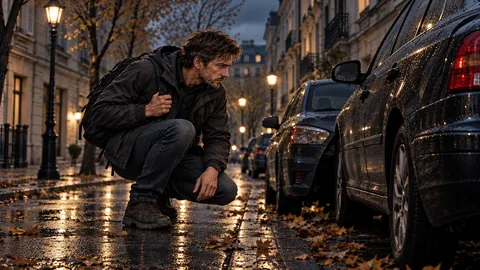
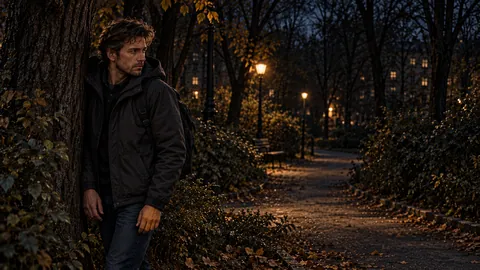
v313: add the approved night park rustle scene and outcomes
Use the neighbour encounter cards with four approved illustrations. Start the rustle at displayed D1, 22:00–05:00, independently of home departure. Preserve seen/pending progress, shared cooldown, paused choices and results, capped Mood gain and visible Energy loss.

Validation: full gameplay/UI/save regression suite, focused event and result checks after the final visibility fix, responsive image/cache checks, WebP verification and production build.

diff --git a/src/events.ts b/src/events.ts
@@ -1,5 +1,6 @@
 import { illustrateStreetEvent } from './eventArtwork'
 import type { Housing } from './game'
+import type { IconName } from './Icon'
 
 export type EventTrigger = 'travel' | 'location' | 'wake' | 'walk' | 'bench'
 
@@ -10,6 +11,8 @@ export function firstNightTime(state: { day: number; minutes: number }) {
 
 export type EventContext = {
   locationId: string
+  /** Stored one-based calendar day: displayed D1 is day 2. */
+  day?: number
   minutes?: number
   temperature?: number
   observation?: 'idle' | 'action' | 'arrival'
@@ -83,6 +86,7 @@ export type DiceCheck = {
 
 export type StreetEventChoice = {
   label: string
+  icon?: IconName
   moneyRequired?: number
   outcome?: EventOutcome
   check?: DiceCheck
@@ -115,10 +119,10 @@ export const STREET_EVENTS: StreetEvent[] = [
     { label:'Take a moment', outcome:{ minutes:5, message:'You watch the windows light up. For everyone inside, this may be an ordinary morning. You take a breath before joining it.' } },
     { label:'Keep moving', outcome:{ minutes:5, energy:-1, mood:1, message:'You adjust your backpack and walk towards the waking streets. The night is over. You still need a plan for the day.' } },
   ]},
-  { id:'night-rustle', trigger:'location', icon:'❔', title:'A rustle behind you', text:'Something scrapes behind a parked car. Then a short rustle, close to the pavement. You turn your head, but the gap between the cars is dark. The street is otherwise silent.', weight:1, eligible:c=>c.locationId==='street' && c.minutes!==undefined && (c.minutes>=1320 || c.minutes<300), choices:[
-    { label:'Look to see what it is', outcome:{ minutes:2, mood:2, message:'You lean far enough to see beneath the car. A cat squeezes out, pauses to look at you, then slips past with its tail up. You let out a breath. For a moment, you almost laugh at yourself.' } },
-    { label:'Wait and listen', outcome:{ minutes:3, message:'You stay still. Something brushes the underside of the car, then everything goes quiet. Nothing comes into view. After a while, you move on without finding out what it was.' } },
-    { label:'Leave it alone and move on', outcome:{ minutes:1, message:'You put some distance between yourself and the parked cars. The sound does not follow you. Whatever it was remains in the dark.' } },
+  { id:'night-rustle', trigger:'location', icon:'❔', title:'A rustle in the dark', text:'The streetlights barely reach this stretch of path. A rustle breaks the silence. A few seconds later, you hear it again.', weight:1, eligible:c=>c.locationId==='street' && c.day!==undefined && c.day>=2 && c.minutes!==undefined && (c.minutes>=1320 || c.minutes<300), choices:[
+    { label:'Call out and step closer', icon:'search', outcome:{ minutes:5, mood:2, message:'“Hello? Anyone there?” You take a few careful steps towards the sound. A cat emerges from the bushes and stops to look at you. You let out a breath. “Just you, then.”' } },
+    { label:'Stay still and listen', icon:'pause', outcome:{ minutes:5, message:'You stop and wait, listening for another sound. Nothing. After a few minutes, you move on, still unsure what you heard.' } },
+    { label:'Walk away', icon:'walk', outcome:{ energy:-1, message:'You quicken your pace and take a longer route around the dark stretch.' } },
   ]},
   { id:'cold-hands', trigger:'location', icon:'🌡', title:'Cold fingers', text:'You have been outside for a while. Your fingers have grown stiff, and you keep curling them into your palms. The cold feels harder to ignore now that there is no warm room waiting for you.', weight:1, eligible:c=>c.locationId==='street' && c.temperature!==undefined && c.temperature<10 && (c.elapsedMinutes??0)>=15 && c.observation!=='arrival', choices:[
     { label:'Rub my hands together', outcome:{ minutes:2, mood:1, message:'You rub your palms and breathe into your cupped hands. A little warmth returns. It is only temporary, but it helps.' } },

diff --git a/src/App.tsx b/src/App.tsx
@@ -41,7 +41,7 @@ import { useGameAutosave } from './useGameAutosave'
 import { SAVE_KEY, DISCOVERY_KEY, readSavedGame, loadDiscoveredLocations } from './saveCompatibility'
 import { displayDay } from './gameDate'
 
-const BUILD_VERSION = 'v2026.10.23-312'
+const BUILD_VERSION = 'v2026.10.23-313'
 const ACTIVITY_TICK_MS = 250
 
 const FIRST_NIGHT_EVENTS_KEY = 'street-life-first-night-events-v1'
@@ -854,10 +854,11 @@ export default function App() {
 
   function observeOrdinaryEvent(trigger: 'travel' | 'location', state: GameState, travelMode?: TravelMode, observation: Pick<EventContext, 'observation' | 'elapsedMinutes'> = {}) {
     if (activeEvent || firstNightEvents.pendingId || encounters.pendingId || !encounterDue(state)) return
-    // Let an opening observation establish the first night before ordinary encounters.
-    if (firstNightTime(state) && !firstNightEvents.seen.length) return
-    const event = nextStreetEvent(trigger, { locationId: state.locationId, minutes: state.minutes, temperature: temperatureAt(weather.temp, state.minutes), ...observation, travelMode, weather: weather.label, housing: life.housing, documents: inventory.documents, firstNight: firstNightTime(state),
+    // Opening observations keep priority; the D1+ rustle can occur away from home
+    // even when the player skipped the at-home encounters on D0.
+    const event = nextStreetEvent(trigger, { locationId: state.locationId, day: state.day, minutes: state.minutes, temperature: temperatureAt(weather.temp, state.minutes), ...observation, travelMode, weather: weather.label, housing: life.housing, documents: inventory.documents, firstNight: firstNightTime(state),
       seenEventIds: [...encounters.seen, ...STREET_EVENTS.filter(event => event.id.startsWith('first-night-')).map(event => event.id)] })
+    if (firstNightTime(state) && !firstNightEvents.seen.length && event?.id !== 'night-rustle') return
     if (event) rememberEncounter(event, state)
   }
 
@@ -1906,6 +1907,7 @@ export default function App() {
       const end = absoluteMinutes(game) + (outcome.minutes ?? 0)
       const goalDay = Math.floor(end / 1440) + 1 + (end % 1440 >= 1320 ? 1 : 0)
       setInfoModal(previous => ({ ...previous, title: activeEvent?.title ?? 'After your choice', text: outcomeText, illustration: rejected.length ? activeEvent?.illustration : outcome.illustration ?? activeEvent?.illustration, illustrationAlt: outcomeText,
+        visibleStats: activeEvent?.id === 'night-rustle' && outcome.energy ? ['Energy'] : undefined,
         ...(place ? { presentation: { ...locationPresentation([place.id], 'On map'), lead: outcomeText,
           ...(place.id === 'shelter' ? { notice: `Arrive before 18:00 on Day ${displayDay(goalDay)}. Doors open at 18:00; registration starts at 18:20.` } : {}) } } : {}) }))
     }

diff --git a/src/ResultCard.tsx b/src/ResultCard.tsx
@@ -6,7 +6,7 @@ import type { ResultChange, ResultSummary } from './results'
 
 export type ResultPlace = { id: string; name: string; hours: string; detail: string }
 export type ResultPresentation = { heading: string; label: string; lead: string; places?: ResultPlace[]; notice?: string; illustration?: string; compact?: boolean; mapStatus?: string }
-export type ResultCardData = { title: string; text: string; label?: string; reflection?: string; illustration?: string; illustrationAlt?: string; presentation?: ResultPresentation; batteryInSummary?: boolean; bottleSearch?: { found: number } } & Partial<ResultSummary>
+export type ResultCardData = { title: string; text: string; label?: string; reflection?: string; illustration?: string; illustrationAlt?: string; presentation?: ResultPresentation; batteryInSummary?: boolean; visibleStats?: string[]; bottleSearch?: { found: number } } & Partial<ResultSummary>
 
 export function resultLabel(label: string) {
   return label.replace(/^[\p{Extended_Pictographic}\p{Emoji_Presentation}\uFE0F\u200D]+\s*/u, '')
@@ -86,7 +86,7 @@ export default memo(function ResultCard({ result, onClose }: { result: ResultCar
   const presentation = result.presentation
   const compactInfo = !!presentation?.compact
   const compactPlace = compactInfo && presentation?.places?.length === 1 ? presentation.places[0] : undefined
-  const changes = (result.changes ?? []).filter(isMajorChange)
+  const changes = (result.changes ?? []).filter(change => isMajorChange(change) || result.visibleStats?.includes(resultLabel(change.label)))
   const gains = changes.filter(change => change.kind === 'positive')
   const consequences = changes.filter(change => change.kind !== 'positive')
   const costs = (result.costs ?? []).filter(cost => isMajorChange(cost) || ((compactInfo || result.batteryInSummary) && resultLabel(cost.label) === 'Battery'))

diff --git a/src/journal.ts b/src/journal.ts
@@ -138,8 +138,8 @@ export function journalReflection(actionTitle: string, outcome: string, summary?
     text = changed('Money', 'positive') ? 'I feel lucky for once. I needed a small break.' : 'I hope they help someone else. That thought feels good.'
   } else if (actionTitle === 'Woken by a patrol' || actionTitle === 'A patrol in the waiting hall') {
     text = /documents are stored at the shelter/.test(source) ? 'My papers are safe at the shelter. I wish I had them with me for that conversation.' : /documents are missing/.test(source) ? 'I felt exposed having to explain my missing documents. I need to get them sorted out.' : /step out into the street/.test(source) ? 'I am outside again. I need to work out where I can rest next.' : 'Being woken like that left me tense. I am glad the conversation is over.'
-  } else if (actionTitle === 'A rustle behind you') {
-    text = /a cat/.test(source) ? 'I feel relieved. I can still laugh at myself, even out here.' : 'I still wonder what made that noise. At least it did not follow me.'
+  } else if (actionTitle === 'A rustle behind you' || actionTitle === 'A rustle in the dark') {
+    text = /a cat/.test(source) ? 'Just a cat. I feel relieved now that I know what made the noise.' : /longer route/.test(source) ? 'I took the longer way around. I would rather keep moving than find out what was there.' : 'I waited, but the sound did not return. I still do not know what made it.'
   } else if (actionTitle === 'Cold fingers') {
     text = /put up|curl your fingers/.test(source) ? 'I keep thinking about somewhere warm. My hands remind me how long I have been outside.' : 'I feel a little warmer. Even small comforts matter out here.'
   } else if (actionTitle === 'The city wakes up') {

diff --git a/src/CompactStreetEvent.tsx b/src/CompactStreetEvent.tsx
@@ -30,7 +30,7 @@ export default function CompactStreetEvent({ event, onChoose, unavailableReason,
       const unavailable = unavailableReason(choice)
       const label = choice.check ? choice.label.replace(/ · .* DC \d+$/, '') : choice.label
       return <ChoiceButton key={choice.label} aria-label={choice.label} disabled={!!unavailable} onClick={() => onChoose(choice)}
-        icon={choiceIcon('', choice.label)} label={label}
+        icon={choice.icon ?? choiceIcon('', choice.label)} label={label}
         detail={<>{choice.check && <small>{choice.check.stat === 'reflex' ? 'Reflex' : 'Persuasion'} check · DC {choice.check.dc}</small>}{unavailable && <small>{unavailable}</small>}</>}
         duration={choice.outcome?.minutes ? approximateDuration(choice.outcome.minutes) : undefined} />
     })}</ChoiceOptions>

diff --git a/GAME_DESIGN.md b/GAME_DESIGN.md
@@ -1,6 +1,6 @@
 # Street Life — Game Design & Implemented Mechanics
 
-**Documentation audit:** 2026-10-23. **Application build:** `v2026.10.23-312`.
+**Documentation audit:** 2026-10-23. **Application build:** `v2026.10.23-313`.
 
 This is the current implementation reference, checked against the source and regression checks. It describes game rules, not universal rules for Polish social services. Prototype rules based on the user's experience are identified where relevant. Future ideas are listed separately from implemented behavior.
 
@@ -949,3 +949,18 @@ The opening evening is displayed as D0; midnight changes it to D1, and later mid
 Stored game days remain one-based. No save migration or rewrite of dates, history keys, effects, cooldowns, daily allowances, mobile renewal, shelter bookings or weekday schedules is required. The first-morning goal still completes at the same real game moment: displayed D1 at noon. Older saves display their day with the same conversion.
 
 Event audit: neighbour returning with shopping is D0 22:00–23:00; neighbour with dog is D0 22:00–00:00. Both require staying near home before any actual trip. The broader first-night context remains D0 22:00 through D1 06:00 (exclusive), preserving bench, station, wake and phone-call behavior after midnight. General events retain their existing time/weather/place restrictions. Idle observations now evaluate the clock after the elapsed tick, so a 23:00/00:00 boundary cannot admit an expired home meeting from the preceding minute.
+
+
+### Night rustle on a park path — v313 (2026-10-23)
+
+**A rustle in the dark** updates the existing `night-rustle` encounter without changing its ID or replaying it for saves that have already seen it. It can first appear from displayed D1 (stored day 2) onward, from 22:00 to 05:00 exclusive, at Street independently of the former-home/departure flag. It uses ordinary location observations and the shared 45-game-minute cooldown; there is no new map location or dedicated park travel requirement. The illustrated setting is a dim neighborhood park path with bushes. Opening prose does not locate the sound or reveal its source: “The streetlights barely reach this stretch of path. A rustle breaks the silence. A few seconds later, you hear it again.” A player who skipped D0 home encounters can still encounter it after midnight.
+
+| Choice | Result |
+|---|---|
+| Call out and step closer | “Hello? Anyone there?” The hero approaches and sees a cat emerge from the bushes; 5 minutes, +2 Mood within the current cap. |
+| Stay still and listen | Wait motionless; the sound does not return and the source stays unknown; 5 minutes, no authored stat effect. |
+| Walk away | Quicken the pace and take a longer route around the dark stretch; −1 Energy, no additional action time or Mood loss. |
+
+The opening and all three answers reuse the neighbour encounters’ shared illustrated blocking event/result modals, blur, contour choice icons and delayed stat animation. Explicit search, pause and walking icons identify the three choices. Actual capped changes appear in the existing result summary; the detour’s authored −1 Energy uses explicit stat visibility rather than being hidden as minor passive drain. Even the no-change waiting result is acknowledged with Got it. Time and background navigation pause for the event and result. Distinct History reflections describe the revealed cat, unexplained wait or longer detour. Existing pending choices and seen-state retain their reload behavior.
+
+Four approved images replace the former parked-car artwork under the existing `event-night-rustle`, `event-rustle-cat`, `event-rustle-wait` and `event-rustle-leave` asset names. Only inspection reveals the cat. RGB WebP masters and 480/768/1024px variants load on demand; existing content-hash caching invalidates the replaced images. [Generation records and reference roles](docs/art/night-rustle-generation.json) preserve the selected sources and art brief.
